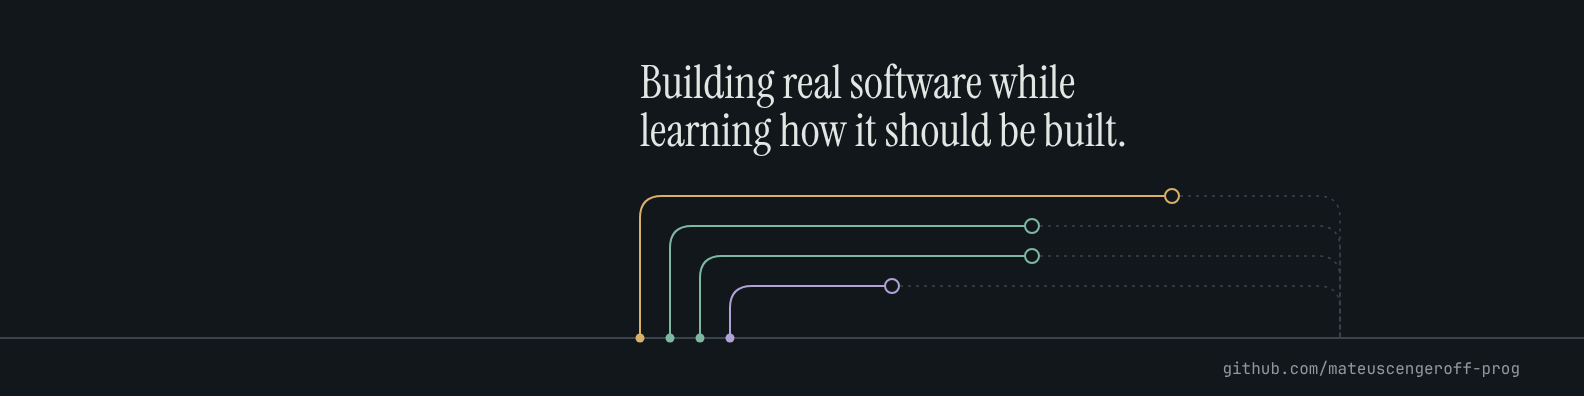
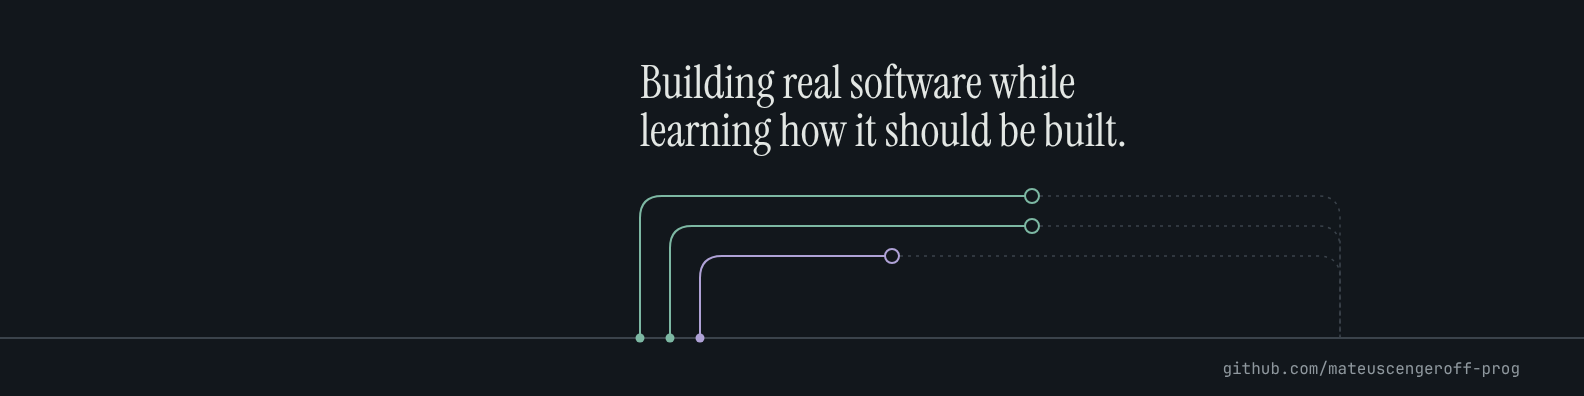
fix: keep non-featured projects out of brand images; document plates
Claude-Session: https://claude.ai/code/session_01X9PtqwVNzb3TuL6jQrGiwR

diff --git a/scripts/brand.py b/scripts/brand.py
@@ -27,7 +27,7 @@ def graph(fonts: Fonts, projects: list[dict], x_left: float, x_right: float, y_m
     col_x = [x_left + span * f for f in (0.36, 0.56, 0.76, 1.0)]
     parts = [f'<line x1="0" y1="{y_main}" x2="2000" y2="{y_main}" '
              f'stroke="{T["line"]}" stroke-width="2"/>']
-    ordered = sorted([p for p in projects if p["status"] != "planned"],
+    ordered = sorted([p for p in projects if p.get("featured", True) and p["status"] != "planned"],
                      key=lambda p: STAGES.index(p["status"]), reverse=True)
     for i, p in enumerate(ordered[:4]):
         color = T["status"][p["status"]]

diff --git a/docs/MAINTAINING.md b/docs/MAINTAINING.md
@@ -26,6 +26,8 @@ Put only merged work in `on_main`. Anything not merged into main yet (open pull 
 
 Never set `repo` on a private project. The build stops if you do.
 
+Projects with `"featured": true` get a full plate (card, figure, case study) in the order they appear in the JSON. Each plate's diagram is a function in `FIGURES` inside `scripts/build.py`; a new featured project needs its own figure, otherwise its plate shows text only. Projects with `"featured": false` appear as a short `note` under *Earlier work* and are left out of the hero and brand images.
+
 ## Activity vs. validated status
 
 - **Automatic**: GitHub's own contribution graph and pinned repositories update by themselves. Nothing in this repo needs a scheduled workflow.
